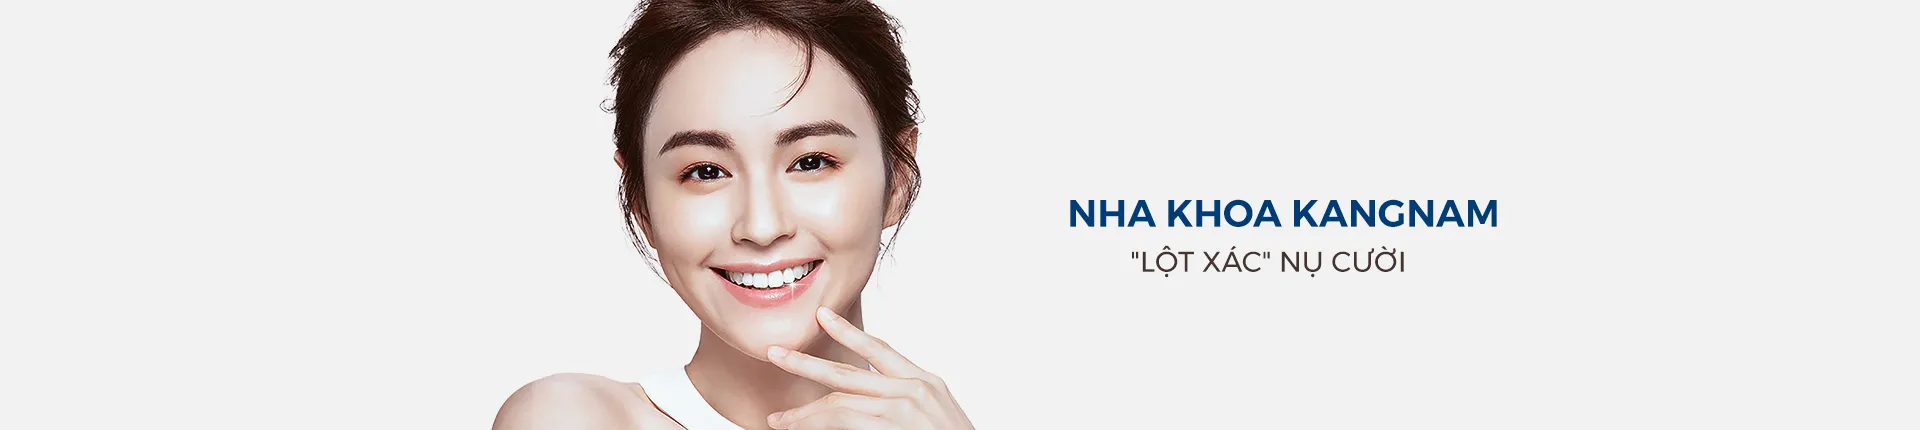
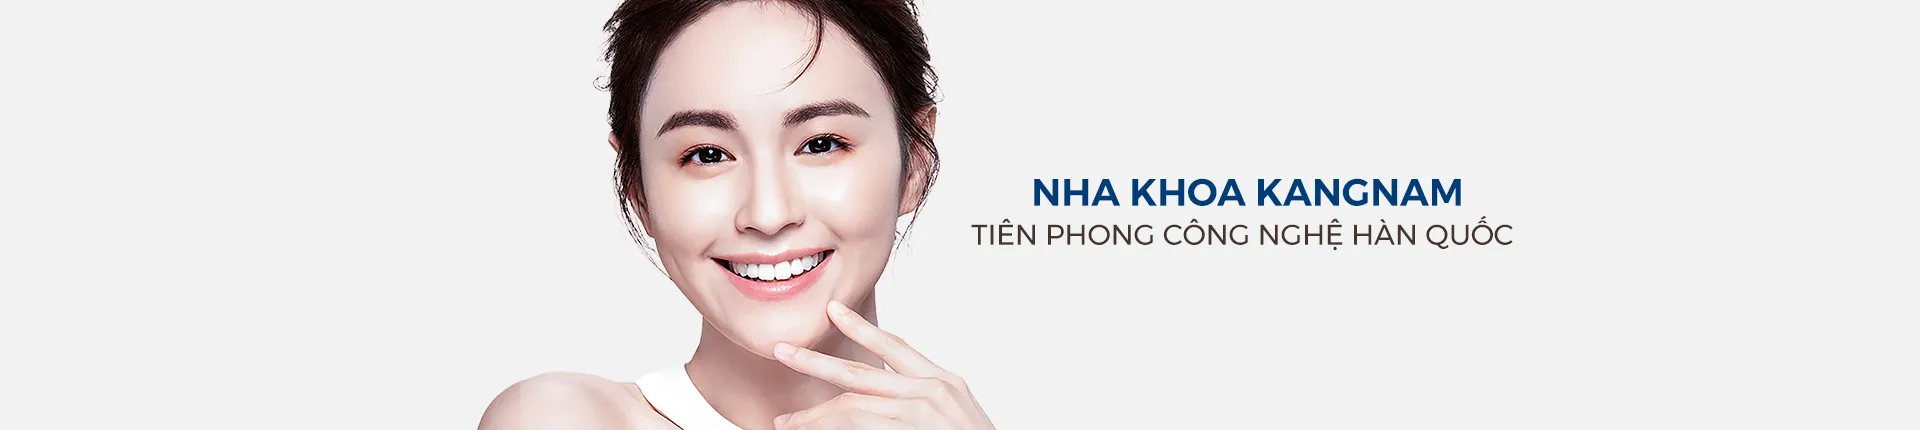
update

Changed region(s): [[0.3125, 0.0, 0.5312, 1.0], [0.5, 0.393, 0.7812, 0.6349], [0.25, 0.8767, 0.2812, 1.0]]

diff --git a/Pages/chuyen-khoa-nha-khoa-tham-my/media/sass/main.min.css b/Pages/chuyen-khoa-nha-khoa-tham-my/media/sass/main.min.css
@@ -1,1 +1,1 @@
-.screen1{font-family:var(--primary-font);padding:55px 0 30px}.screen1__title{font-family:var(--primary-font);font-size:26px;text-align:center;text-transform:uppercase;color:#000;font-weight:bold;margin:0}.screen1__title br{display:none}.screen1__line{width:150px;height:1px;background-color:#000;margin:15px auto}.screen1__des{text-align:justify;-moz-text-align-last:center;text-align-last:center;width:65%;margin:0 auto}.screen1__box{display:flex;justify-content:center;gap:20px;padding:30px 0 0}.screen1__item{width:24%;text-align:center}.screen1__pic{overflow:hidden}.screen1__pic img{width:100%;height:auto;display:block;transition:all .2s linear}.screen1__pic img:hover{transform:scale(1.03)}.screen1__content{background:#e9f4ff;height:100px;display:flex;flex-direction:column;align-items:center;justify-content:center}.screen1__name{font-family:var(--primary-font);font-weight:600;font-size:20px;text-transform:uppercase;padding-bottom:5px;line-height:25px;margin:0}.screen1__name>a{color:#000;transition:all .2s linear}.screen1__name>a:hover{color:#d0a868}.screen1__note a{border-bottom:1px solid #000;position:relative;color:#000}.screen1__note a:hover{border:none;color:#d0a868}.screen1__note a::after{content:"";position:absolute;width:0px;height:1px;left:50%;bottom:0;background-color:#d0a868;transition:all ease-in-out .2s}.screen1__note a:hover::after{width:100%;left:0}@media(max-width: 820px){.screen1__title{font-size:22px}.screen1__des{width:75%}.screen1__box{gap:15px}.screen1__name{font-size:16px}.screen1__content{height:90px}}@media(max-width: 767px){.screen1{padding:50px 0 30px}.screen1__title br{display:block}.screen1__line{margin:10px auto}.screen1__des{width:100%}.screen1__box{gap:10px;flex-wrap:wrap}.screen1__item{width:48%}.screen1__name{font-size:16px;line-height:22px}.screen1__note a{font-size:14px}}@media(max-width: 320px){.screen1__title{font-size:20px}.screen1__des{font-size:14px}.screen1__name{font-size:14px;line-height:20px}.screen1__note a{font-size:13px}}.screen2 picture img{width:100%;height:auto}.screen2 picture source{width:100%;height:auto}.screen3{padding:30px 0 0}.screen3__box{display:flex;justify-content:space-between;margin-bottom:30px;align-items:center;flex-wrap:wrap}.screen3__item{width:47%}.screen3__pic{width:47%}.screen3__pic img{width:100%;height:auto;display:block}.screen3__title{font-size:20px;text-align:center;text-transform:uppercase;font-weight:bold;padding-bottom:10px}.screen3__des{text-align:center;text-transform:uppercase;font-size:18px}.screen3__text{text-align:justify;padding-top:10px;font-weight:300;width:-moz-fit-content;width:fit-content;margin:auto}.screen3__text.no__center{text-align:left}@media(max-width: 820px){.screen3__title{font-size:20px}.screen3__des{font-size:16px}}@media(max-width: 767px){.screen3__item{width:100%}.screen3__pic{width:100%}.screen3__box{gap:20px}.screen3__box:nth-child(2),.screen3__box:nth-child(4),.screen3__box:nth-child(6){flex-direction:column-reverse}}.screen4{padding-bottom:40px}.screen4__head{text-align:center;font-size:32px;font-weight:700;color:#1c1c1c;text-transform:uppercase;margin-bottom:20px}.screen4__items{display:flex;flex-wrap:wrap;gap:20px}.screen4__item{width:calc(50% - 10px)}.screen4__item img{width:100%;height:auto;display:block}.screen4__btn{text-align:center;margin-top:20px;display:flex;flex-direction:column;justify-content:center}.screen4__btn>a{text-align:center;cursor:pointer;padding:5px 15px;border-radius:30px;border:1px solid #000;font-weight:600;text-transform:uppercase;margin:0 auto;transition:all .2s linear}.screen4__btn>a:hover{background:#bee0ff;border:1px solid #fff}@media(max-width: 767px){.screen4{padding-bottom:20px}.screen4__head{font-size:24px}.screen4__item{width:100%}}/*# sourceMappingURL=main.min.css.map */
+.screen1{font-family:var(--primary-font);padding:55px 0 30px}.screen1__inner{display:flex;gap:50px;align-items:center}.screen1__head{width:50%}.screen1__video{flex:1}.screen1__video img{width:100%;height:auto;display:block}.screen1__title{font-family:var(--primary-font);font-size:26px;text-align:center;text-transform:uppercase;color:#000;font-weight:bold;margin:0}.screen1__title br{display:none}.screen1__line{width:150px;height:1px;background-color:#000;margin:15px auto}.screen1__des{text-align:justify;-moz-text-align-last:center;text-align-last:center}.screen1__box{display:flex;justify-content:center;gap:20px;padding:30px 0 0}.screen1__item{width:24%;text-align:center}.screen1__pic{overflow:hidden}.screen1__pic img{width:100%;height:auto;display:block;transition:all .2s linear}.screen1__pic img:hover{transform:scale(1.03)}.screen1__content{background:#e9f4ff;height:100px;display:flex;flex-direction:column;align-items:center;justify-content:center}.screen1__name{font-family:var(--primary-font);font-weight:600;font-size:20px;text-transform:uppercase;padding-bottom:5px;line-height:25px;margin:0}.screen1__name>a{color:#000;transition:all .2s linear}.screen1__name>a:hover{color:#d0a868}.screen1__note a{border-bottom:1px solid #000;position:relative;color:#000}.screen1__note a:hover{border:none;color:#d0a868}.screen1__note a::after{content:"";position:absolute;width:0px;height:1px;left:50%;bottom:0;background-color:#d0a868;transition:all ease-in-out .2s}.screen1__note a:hover::after{width:100%;left:0}@media(max-width: 820px){.screen1__title{font-size:22px}.screen1__des{width:75%}.screen1__box{gap:15px}.screen1__name{font-size:16px}.screen1__content{height:90px}}@media(max-width: 767px){.screen1{padding:50px 0 30px}.screen1__title br{display:block}.screen1__line{margin:10px auto}.screen1__des{width:100%}.screen1__box{gap:10px;flex-wrap:wrap}.screen1__item{width:48%}.screen1__name{font-size:16px;line-height:22px}.screen1__note a{font-size:14px}}@media(max-width: 320px){.screen1__title{font-size:20px}.screen1__des{font-size:14px}.screen1__name{font-size:14px;line-height:20px}.screen1__note a{font-size:13px}}.screen2 picture img{width:100%;height:auto}.screen2 picture source{width:100%;height:auto}.screen3{padding:30px 0 0}.screen3__box{display:flex;justify-content:space-between;margin-bottom:30px;align-items:center;flex-wrap:wrap}.screen3__item{width:47%}.screen3__pic{width:47%}.screen3__pic img{width:100%;height:auto;display:block}.screen3__title{font-size:20px;text-align:center;text-transform:uppercase;font-weight:bold;padding-bottom:10px}.screen3__des{text-align:center;text-transform:uppercase;font-size:18px}.screen3__text{text-align:justify;padding-top:10px;font-weight:300;width:-moz-fit-content;width:fit-content;margin:auto}.screen3__text.no__center{text-align:left}@media(max-width: 820px){.screen3__title{font-size:20px}.screen3__des{font-size:16px}}@media(max-width: 767px){.screen3__item{width:100%}.screen3__pic{width:100%}.screen3__box{gap:20px}.screen3__box:nth-child(2),.screen3__box:nth-child(4),.screen3__box:nth-child(6){flex-direction:column-reverse}}.screen4{padding-bottom:40px}.screen4__head{text-align:center;font-size:32px;font-weight:700;color:#1c1c1c;text-transform:uppercase;margin-bottom:20px}.screen4__items{display:flex;flex-wrap:wrap;gap:20px}.screen4__item{width:calc(50% - 10px)}.screen4__item img{width:100%;height:auto;display:block}.screen4__btn{text-align:center;margin-top:20px;display:flex;flex-direction:column;justify-content:center}.screen4__btn>a{text-align:center;cursor:pointer;padding:5px 15px;border-radius:30px;border:1px solid #000;font-weight:600;text-transform:uppercase;margin:0 auto;transition:all .2s linear}.screen4__btn>a:hover{background:#bee0ff;border:1px solid #fff}@media(max-width: 767px){.screen4{padding-bottom:20px}.screen4__head{font-size:24px}.screen4__item{width:100%}}/*# sourceMappingURL=main.min.css.map */

diff --git a/Pages/chuyen-khoa-nha-khoa-tham-my/index.html b/Pages/chuyen-khoa-nha-khoa-tham-my/index.html
@@ -12,12 +12,22 @@
 <body>
     <section id="page1" class="screen1">
         <div class="container">
-            <h1 class="screen1__title">
-                CHUYÊN KHOA nha khoa thẩm mỹ
-            </h1>
-            <div class="screen1__line"></div>
-            <div class="screen1__des">
-                Nha khoa thẩm mỹ Kangnam hoạt động với sứ mệnh chăm sóc sức khỏe răng miệng toàn diện, mang lại cho khách hàng nụ cười rạng rỡ, tự tin chinh phục mọi thử thách. Kangnam ứng dụng thành công các công nghệ thẩm mỹ răng tiên tiến trên thế giới như: Niềng răng, Bọc răng sứ, Cấy ghép Implant, Tẩy trắng răng…với nhiều ưu điểm vượt trội cùng đội ngũ chuyên gia, bác sĩ nha khoa đầu ngành có trình độ chuyên môn cao, giàu kinh nghiệm.
+            <div class="screen1__inner">
+                <div class="screen1__head">
+                    <h1 class="screen1__title">
+                        CHUYÊN KHOA nha khoa thẩm mỹ
+                    </h1>
+                    <div class="screen1__line"></div>
+                    <div class="screen1__des">
+                        Nha khoa thẩm mỹ Kangnam hoạt động với sứ mệnh chăm sóc sức khỏe răng miệng toàn diện, mang lại cho khách hàng nụ cười rạng rỡ, tự tin chinh phục mọi thử thách. Kangnam ứng dụng thành công các công nghệ thẩm mỹ răng tiên tiến trên thế giới như: Niềng răng, Bọc răng sứ, Cấy ghép Implant, Tẩy trắng răng…với nhiều ưu điểm vượt trội cùng đội ngũ chuyên gia, bác sĩ nha khoa đầu ngành có trình độ chuyên môn cao, giàu kinh nghiệm.
+                    </div>
+                </div>
+                <div class="screen1__video">
+                    <div class="screen1__click">
+                        <img width="560" height="311" class="lazy" data-src="media/images/nhakhoa-p1.webp" alt="">
+                        <button><img width="" src="media/images/icon-play.svg" alt=""></button>
+                    </div>
+                </div>
             </div>
             <div class="screen1__box">
                 <div class="screen1__item">
@@ -85,8 +95,8 @@
     </section>
     <section id="page2" class="screen2">
         <picture>
-            <source media="(min-width:465px)" srcset="media/images/page2-dt.webp?ver=1">
-            <img width="1430" height="320" class="lazy" data-src="media/images/page2-mb.webp?ver=2" alt="background">
+            <source media="(min-width:465px)" srcset="media/images/page2-dt.webp?ver=2">
+            <img width="1430" height="320" class="lazy" data-src="media/images/page2-mb.webp?ver=3" alt="background">
         </picture>
     </section>
     <section id="page3" class="screen3">

diff --git a/Pages/chuyen-khoa-nha-khoa-tham-my/media/sass/main.scss b/Pages/chuyen-khoa-nha-khoa-tham-my/media/sass/main.scss
@@ -1,6 +1,22 @@
 .screen1 {
   font-family: var(--primary-font);
   padding: 55px 0 30px;
+  &__inner{
+    display: flex;
+    gap: 50px;
+    align-items: center;
+  }
+  &__head{
+    width: 50%;
+  }
+  &__video{
+    flex: 1;
+    img{
+      width: 100%;
+      height: auto;
+      display: block;
+    }
+  }
   &__title {
     font-family: var(--primary-font);
     font-size: 26px;
@@ -22,8 +38,6 @@
   &__des {
     text-align: justify;
     text-align-last: center;
-    width: 65%;
-    margin: 0 auto;
   }
   &__box {
     display: flex;
